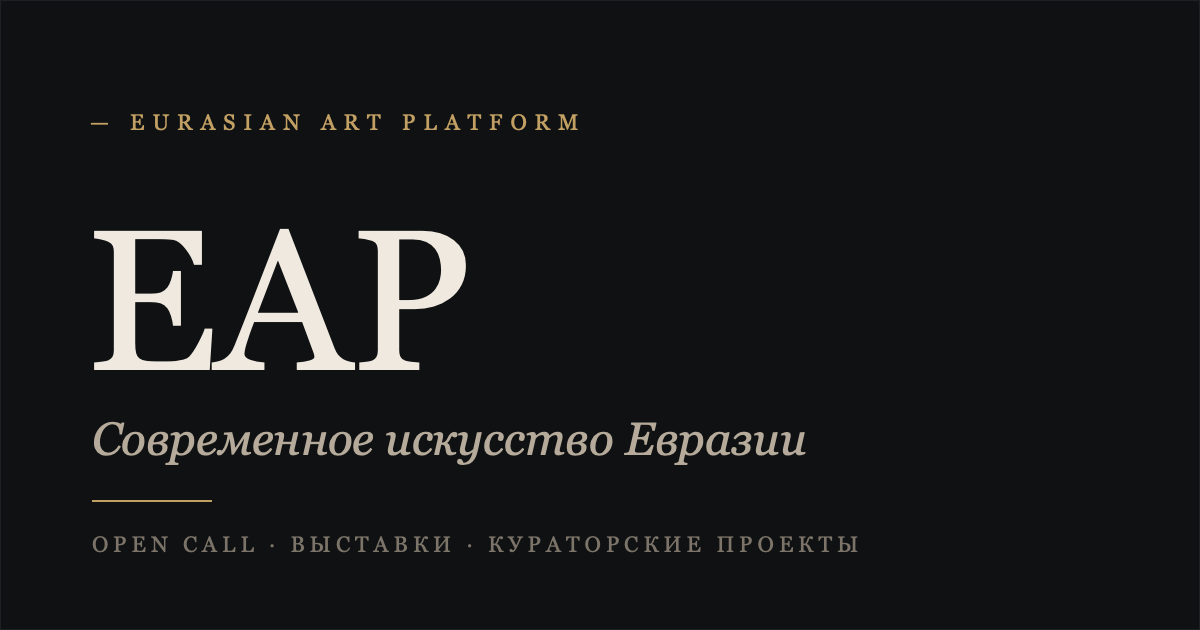
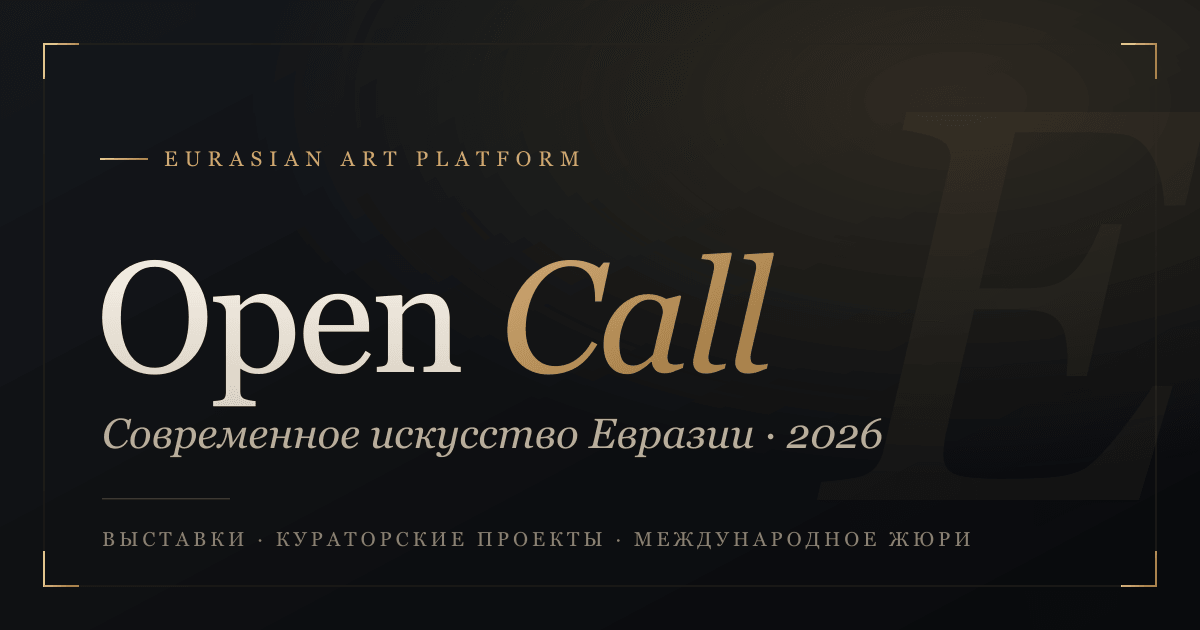
feat(og): premium social-share thumbnail
Redesigned the Open Graph / Twitter share image (rendered to PNG via sharp):
gallery passe-partout frame with gold corner ticks, gradient + warm gold glow,
serif 'Open Call' (ivory + italic gold), Cyrillic tagline, and a faint E
monogram for depth. Meta tags now use absolute URLs + alt + cache-bust so
platforms re-scrape.

diff --git a/index.html b/index.html
@@ -13,11 +13,13 @@
     <meta property="og:title" content="EAP — Eurasian Art Platform" />
     <meta property="og:description" content="Международный кураторский open call для современных художников Евразии." />
     <meta property="og:type" content="website" />
-    <meta property="og:image" content="/og-image.png" />
+    <meta property="og:url" content="https://myeap.xyz/" />
+    <meta property="og:image" content="https://myeap.xyz/og-image.png?v=2" />
     <meta property="og:image:width" content="1200" />
     <meta property="og:image:height" content="630" />
+    <meta property="og:image:alt" content="Eurasian Art Platform — Open Call" />
     <meta name="twitter:card" content="summary_large_image" />
-    <meta name="twitter:image" content="/og-image.png" />
+    <meta name="twitter:image" content="https://myeap.xyz/og-image.png?v=2" />
   </head>
   <body>
     <div id="root"></div>
